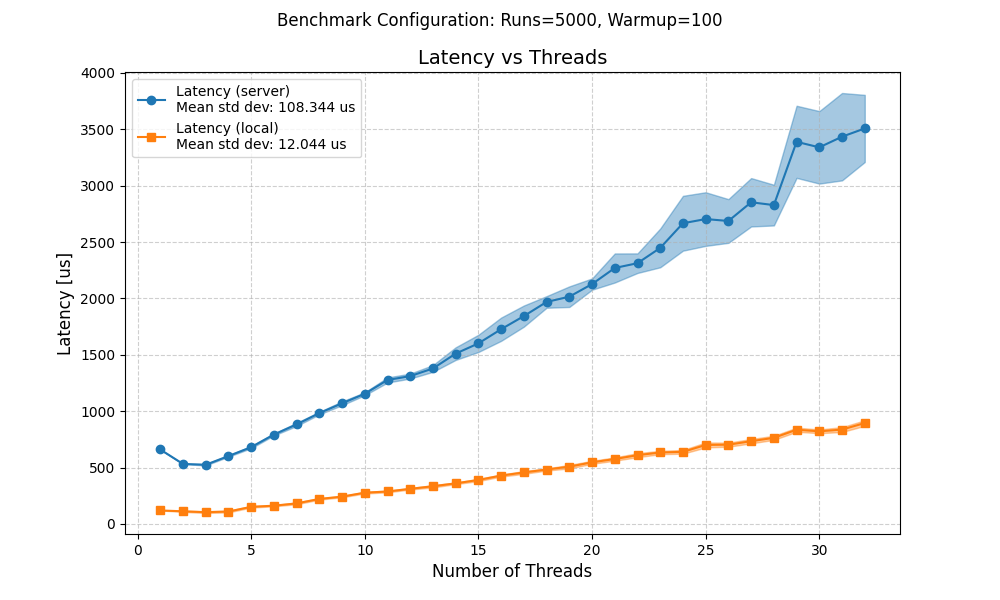
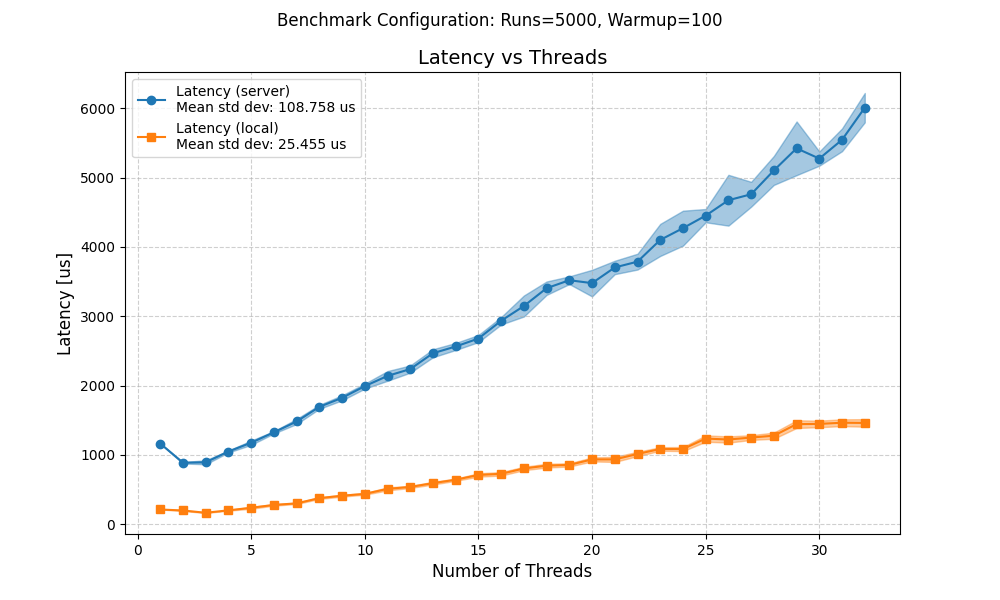
Fix stats to use customer interactions

diff --git a/a3/src/com/acertainbookstore/client/workloads/CertainWorkload.java b/a3/src/com/acertainbookstore/client/workloads/CertainWorkload.java
@@ -118,17 +118,20 @@ public class CertainWorkload {
         long totalInteractions = 0;
         long totalSuccessfulInteractions = 0;
         long totalCustomerInteractions = 0;
+        long totalSuccessfulCustomerInteractions = 0;
         long totalElapsedTime = 0;
         double aggThroughput = 0.0;
         for (WorkerRunResult result: workerRunResults) {
             totalInteractions += result.getTotalRuns();
             totalSuccessfulInteractions += result.getSuccessfulInteractions();
             totalCustomerInteractions += result.getTotalFrequentBookStoreInteractionRuns();
+            totalSuccessfulCustomerInteractions += result.getSuccessfulFrequentBookStoreInteractionRuns();
             totalElapsedTime += result.getElapsedTimeInNanoSecs();
 
-            aggThroughput += (double)result.getSuccessfulInteractions() / (double)result.getElapsedTimeInNanoSecs();
+            aggThroughput += (double)result.getSuccessfulFrequentBookStoreInteractionRuns()
+                    / (double)result.getElapsedTimeInNanoSecs();
         }
-        double avgLatency = (double)totalElapsedTime / (double)totalSuccessfulInteractions;
+        double avgLatency = (double)totalElapsedTime / (double)totalSuccessfulCustomerInteractions;
 
         double successRate = (totalSuccessfulInteractions * 100.0) / totalInteractions;
         assert successRate >= 99.0 : "Success rate is below 99%";
@@ -140,7 +143,7 @@ public class CertainWorkload {
         double totalLatencySquaredError = 0.0;
         for (WorkerRunResult result: workerRunResults) {
             var dt = (double)result.getElapsedTimeInNanoSecs();
-            var si = (double)result.getSuccessfulInteractions();
+            var si = (double)result.getSuccessfulFrequentBookStoreInteractionRuns();
 
             double threadThroughput = si / dt;
             double throughputDiff = threadThroughput - (aggThroughput / count);

diff --git a/a3/src/com/acertainbookstore/client/BookStoreHTTPProxy.java b/a3/src/com/acertainbookstore/client/BookStoreHTTPProxy.java
@@ -86,7 +86,6 @@ public class BookStoreHTTPProxy implements BookStore {
 
     public void restartServer() throws BookStoreException {
         String urlString = serverAddress + "/" + BookStoreMessageTag.RESTART;
-        System.out.println("Restarting server via proxy at: " + urlString);
         BookStoreRequest bookStoreRequest = BookStoreRequest.newGetRequest(urlString);
         BookStoreUtility.performHttpExchange(client, bookStoreRequest, serializer.get());
     }
